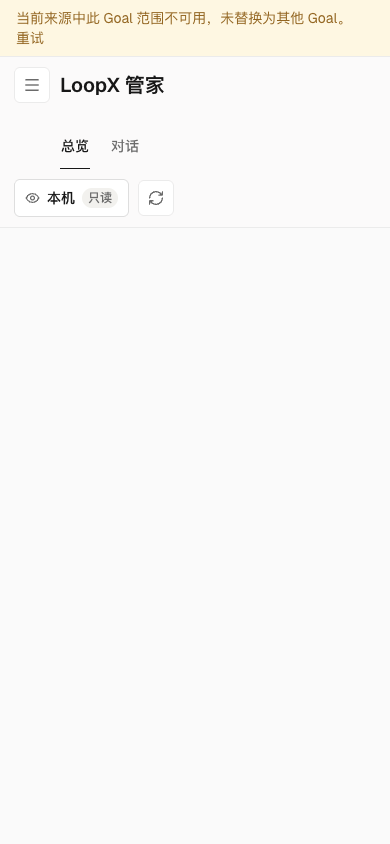
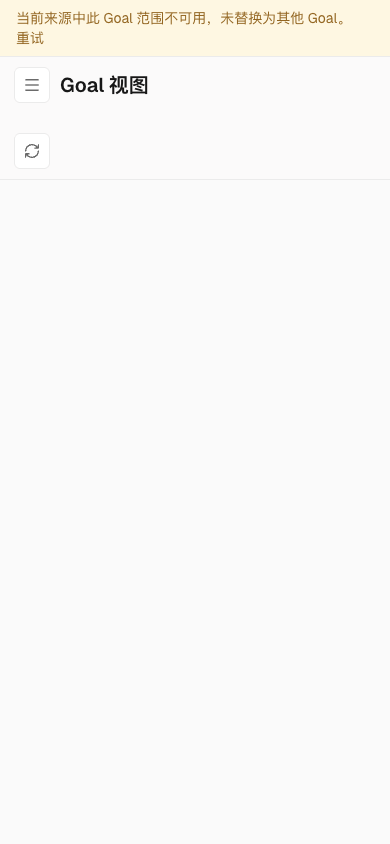
fix(workspace): keep unavailable Goal scopes out of steward navigation (#6818)

diff --git a/apps/presentation/dashboard/src/features/personal-workspace/channel-header.tsx b/apps/presentation/dashboard/src/features/personal-workspace/channel-header.tsx
@@ -41,6 +41,7 @@ export function ChannelHeader({
   selectedAgentReasoningEffort,
   selectedGoal,
   selectedGoalTab,
+  scopeUnavailable = false,
   workspaceGrantLabel,
 }: {
   agents: WorkspaceAgentOption[];
@@ -81,6 +82,8 @@ export function ChannelHeader({
   selectedAgentReasoningEffort?: string;
   selectedGoal: WorkspaceGoal | null;
   selectedGoalTab: WorkspaceGoalTab;
+  /** A requested Goal scope failed; do not present the steward as its fallback. */
+  scopeUnavailable?: boolean;
 }) {
   const { locale, t } = useWorkspaceI18n();
   const statusOnly = selectedAgentId === "status-only";
@@ -154,7 +157,7 @@ export function ChannelHeader({
                   : "header.managerAllocationConfigured")
     : null;
 
-  const runtimeControl = agentWorkActive ? null : readOnlySourceLabel ? (
+  const runtimeControl = scopeUnavailable || agentWorkActive ? null : readOnlySourceLabel ? (
     <span className="personal-read-only-source" title={t("header.readOnlySourceDescription", { source: readOnlySourceLabel })}><Eye size={15} />{readOnlySourceLabel}<small>{t("common.readOnly")}</small></span>
   ) : <>
     <WorkspaceSelect
@@ -197,8 +200,8 @@ export function ChannelHeader({
 
   // The steward channel binding describes the steward executor; a workspace
   // conversation runs on the selected runtime instead.
-  const stewardBindingVisible = !selectedGoal && !workspaceGrantLabel;
-  const scopeControl = !selectedGoal && managerChatOpen && conversationScope && !readOnlySourceLabel ? (
+  const stewardBindingVisible = !scopeUnavailable && !selectedGoal && !workspaceGrantLabel;
+  const scopeControl = !scopeUnavailable && !selectedGoal && managerChatOpen && conversationScope && !readOnlySourceLabel ? (
     <WorkspaceSelect
       ariaLabel={t("header.conversationScope")}
       className="personal-agent-select personal-scope-select"
@@ -214,7 +217,7 @@ export function ChannelHeader({
     <header className="personal-channel-header" data-goal-selected={Boolean(selectedGoal)} data-workspace-scope={workspaceGrantLabel ? "true" : undefined}>
       <button aria-expanded={mobileNavigationOpen ?? false} aria-label={t("header.openGoalNavigation")} className="personal-icon-button personal-mobile-menu" onClick={onOpenNavigation} type="button"><Menu size={18} /></button>
       <div className="personal-channel-title">
-        {selectedGoal ? <GoalMastheadIdentity goal={selectedGoal} onOpenDetails={onOpenGoalDetails} onOpenWorkspace={onOpenWorkspace ?? (() => undefined)} /> : <h1>{t("header.manager")}</h1>}
+        {selectedGoal ? <GoalMastheadIdentity goal={selectedGoal} onOpenDetails={onOpenGoalDetails} onOpenWorkspace={onOpenWorkspace ?? (() => undefined)} /> : <h1>{t(scopeUnavailable ? "header.goalView" : "header.manager")}</h1>}
         {workspaceGrantLabel ? <p className="personal-channel-activity">{t("workspace.conversation", { grant: workspaceGrantLabel })}</p> : null}
         <div className="personal-manager-context">
         {stewardBindingVisible && managerChannelBinding ? (
@@ -269,12 +272,12 @@ export function ChannelHeader({
         </nav>
         {runtimeControl}
         </div>
-      ) : (
+      ) : !scopeUnavailable ? (
         <nav aria-label={t("header.managerView")} className="personal-goal-tabs">
           <button aria-current={!managerChatOpen ? "page" : undefined} onClick={onReturnManagerHome} type="button">{t("header.managerOverview")}</button>
           <button aria-current={managerChatOpen ? "page" : undefined} onClick={onOpenManagerChat} type="button">{t("header.chat")}</button>
         </nav>
-      )}
+      ) : null}
       <div className="personal-channel-actions">
         {selectedGoal && onOpenAllWork ? <button type="button" className="personal-icon-button goal-all-work-trigger" aria-label={locale === "zh-CN" ? "打开全部工作" : "Open all work"} aria-expanded={allWorkOpen} aria-haspopup="dialog" onClick={onOpenAllWork}><List size={17} aria-hidden/></button> : null}
         {selectedGoal && !selectedGoal.loadState && onRequestGoalLifecycle ? (

diff --git a/apps/presentation/dashboard/src/features/personal-workspace/personal-workspace-page.tsx b/apps/presentation/dashboard/src/features/personal-workspace/personal-workspace-page.tsx
@@ -2674,6 +2674,7 @@ export function PersonalWorkspacePage({
           <div>
           <ChannelHeader
             agents={agents}
+            scopeUnavailable={rootUnavailable}
             agentWorkActive={agentWorkActive}
             conversationScope={workspaceConversations && (workspaceConversations.projects?.length || workspaceConversations.readFailed || selectedWorkspaceRef) ? {
               onChange: (value) => {
